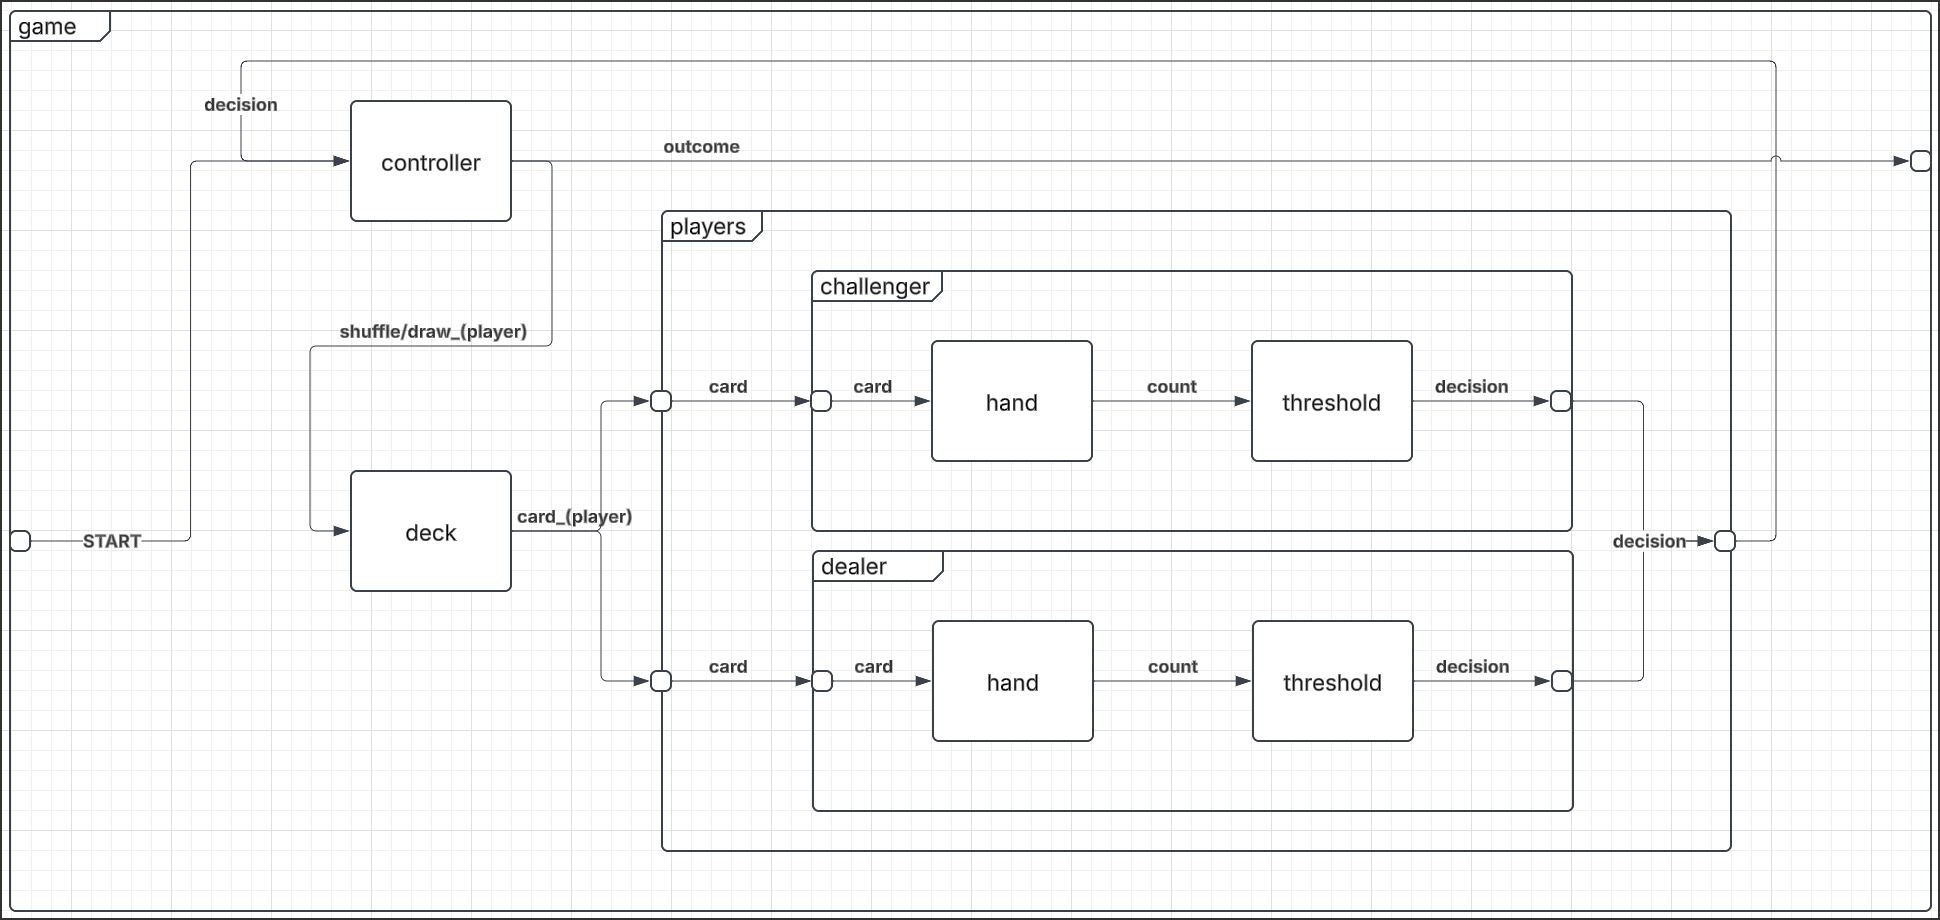
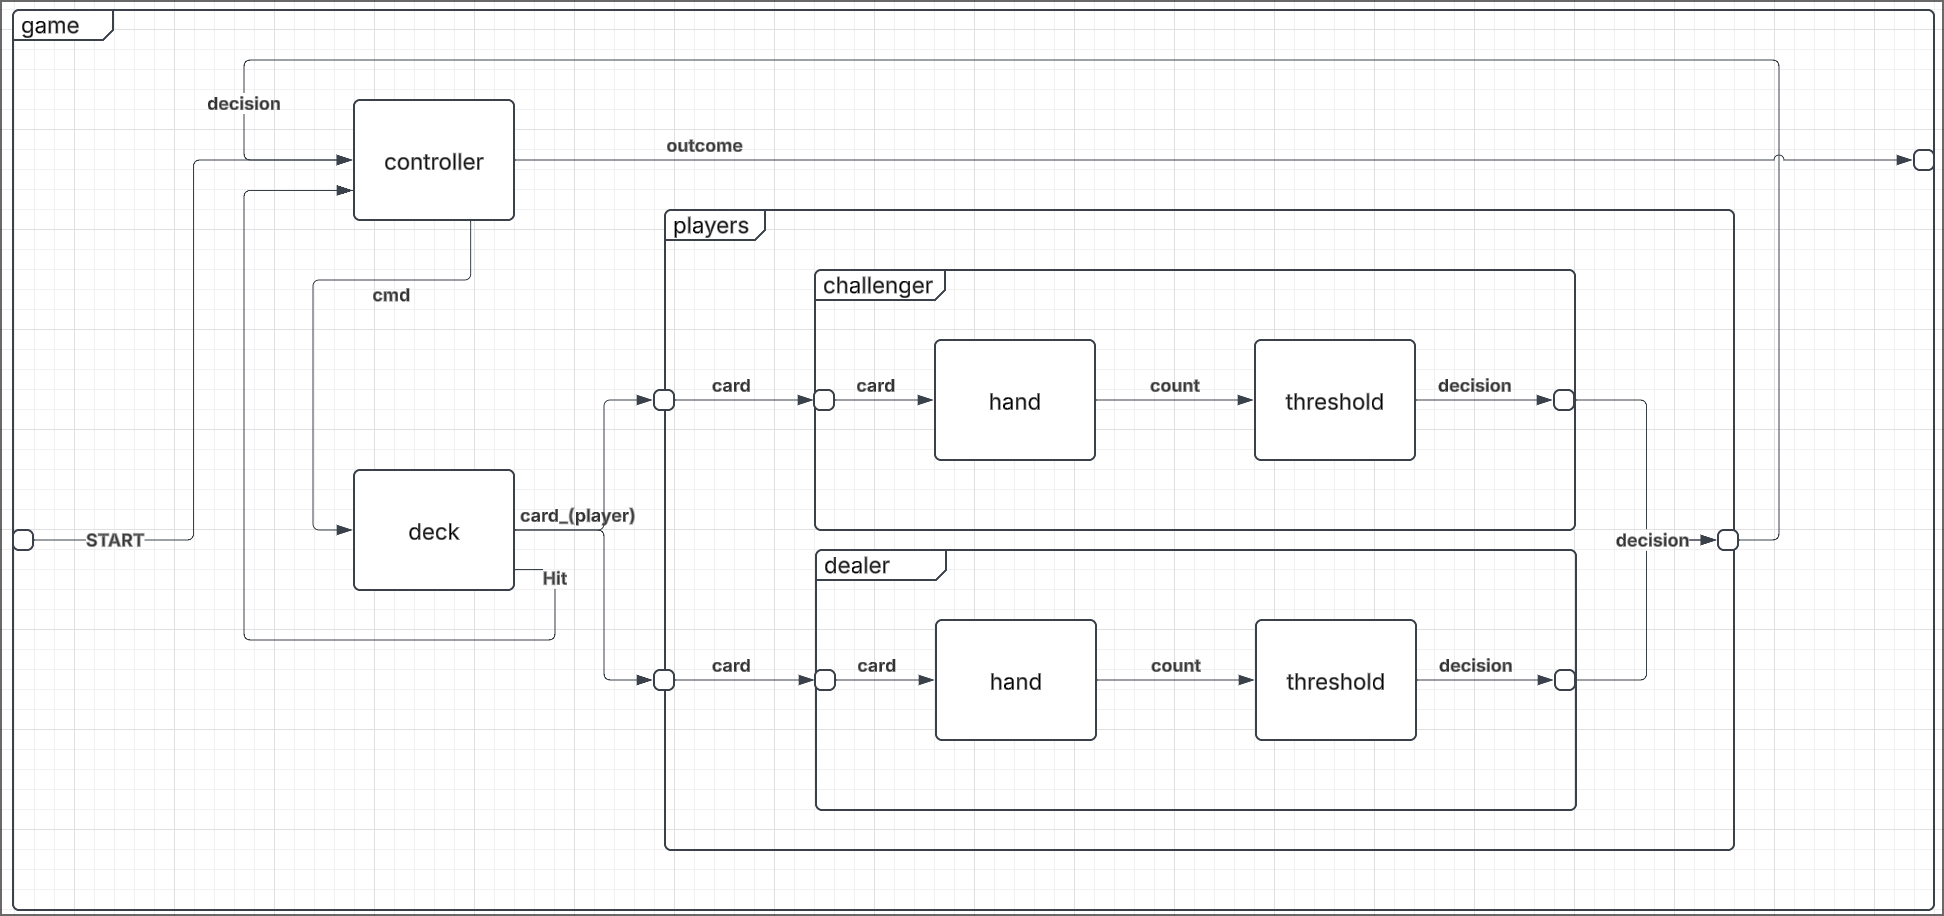
game coupled model spec

diff --git a/coupled-models/game.md b/coupled-models/game.md
@@ -1,16 +1,29 @@
 # Game Coupled Model
-![img](game.png)
+![game](game.png)
 ## X - Input
-
+{start}
 ## Y - Output
+{win,lose,tie}
 
 ## M - Set of Component Models
+{controller, deck, players}
 
 ## EIC - External Input Couplings
+{(game.start,controller.start)}
 
 ## EOC - External Output Couplings
+{(controller.outcome,game.out)}
 
 ## IC - Internal Couplings
+{
+ (controller.cmd,deck.cmd),
+ (deck.card_(player),player.card_(player)),
+ (deck.HIT,controller.HIT),
+ (players.decision,controller.decision),
+}
 
-## Select
+## Select:
+- It's better to take the decision of the previous turn first before processing the updated hand.
+- That said, you should never be drawing before your turn is ended so if this happens in simulation something has gone wrong already.
 
+SELECT: ({controller, deck}) = deck
